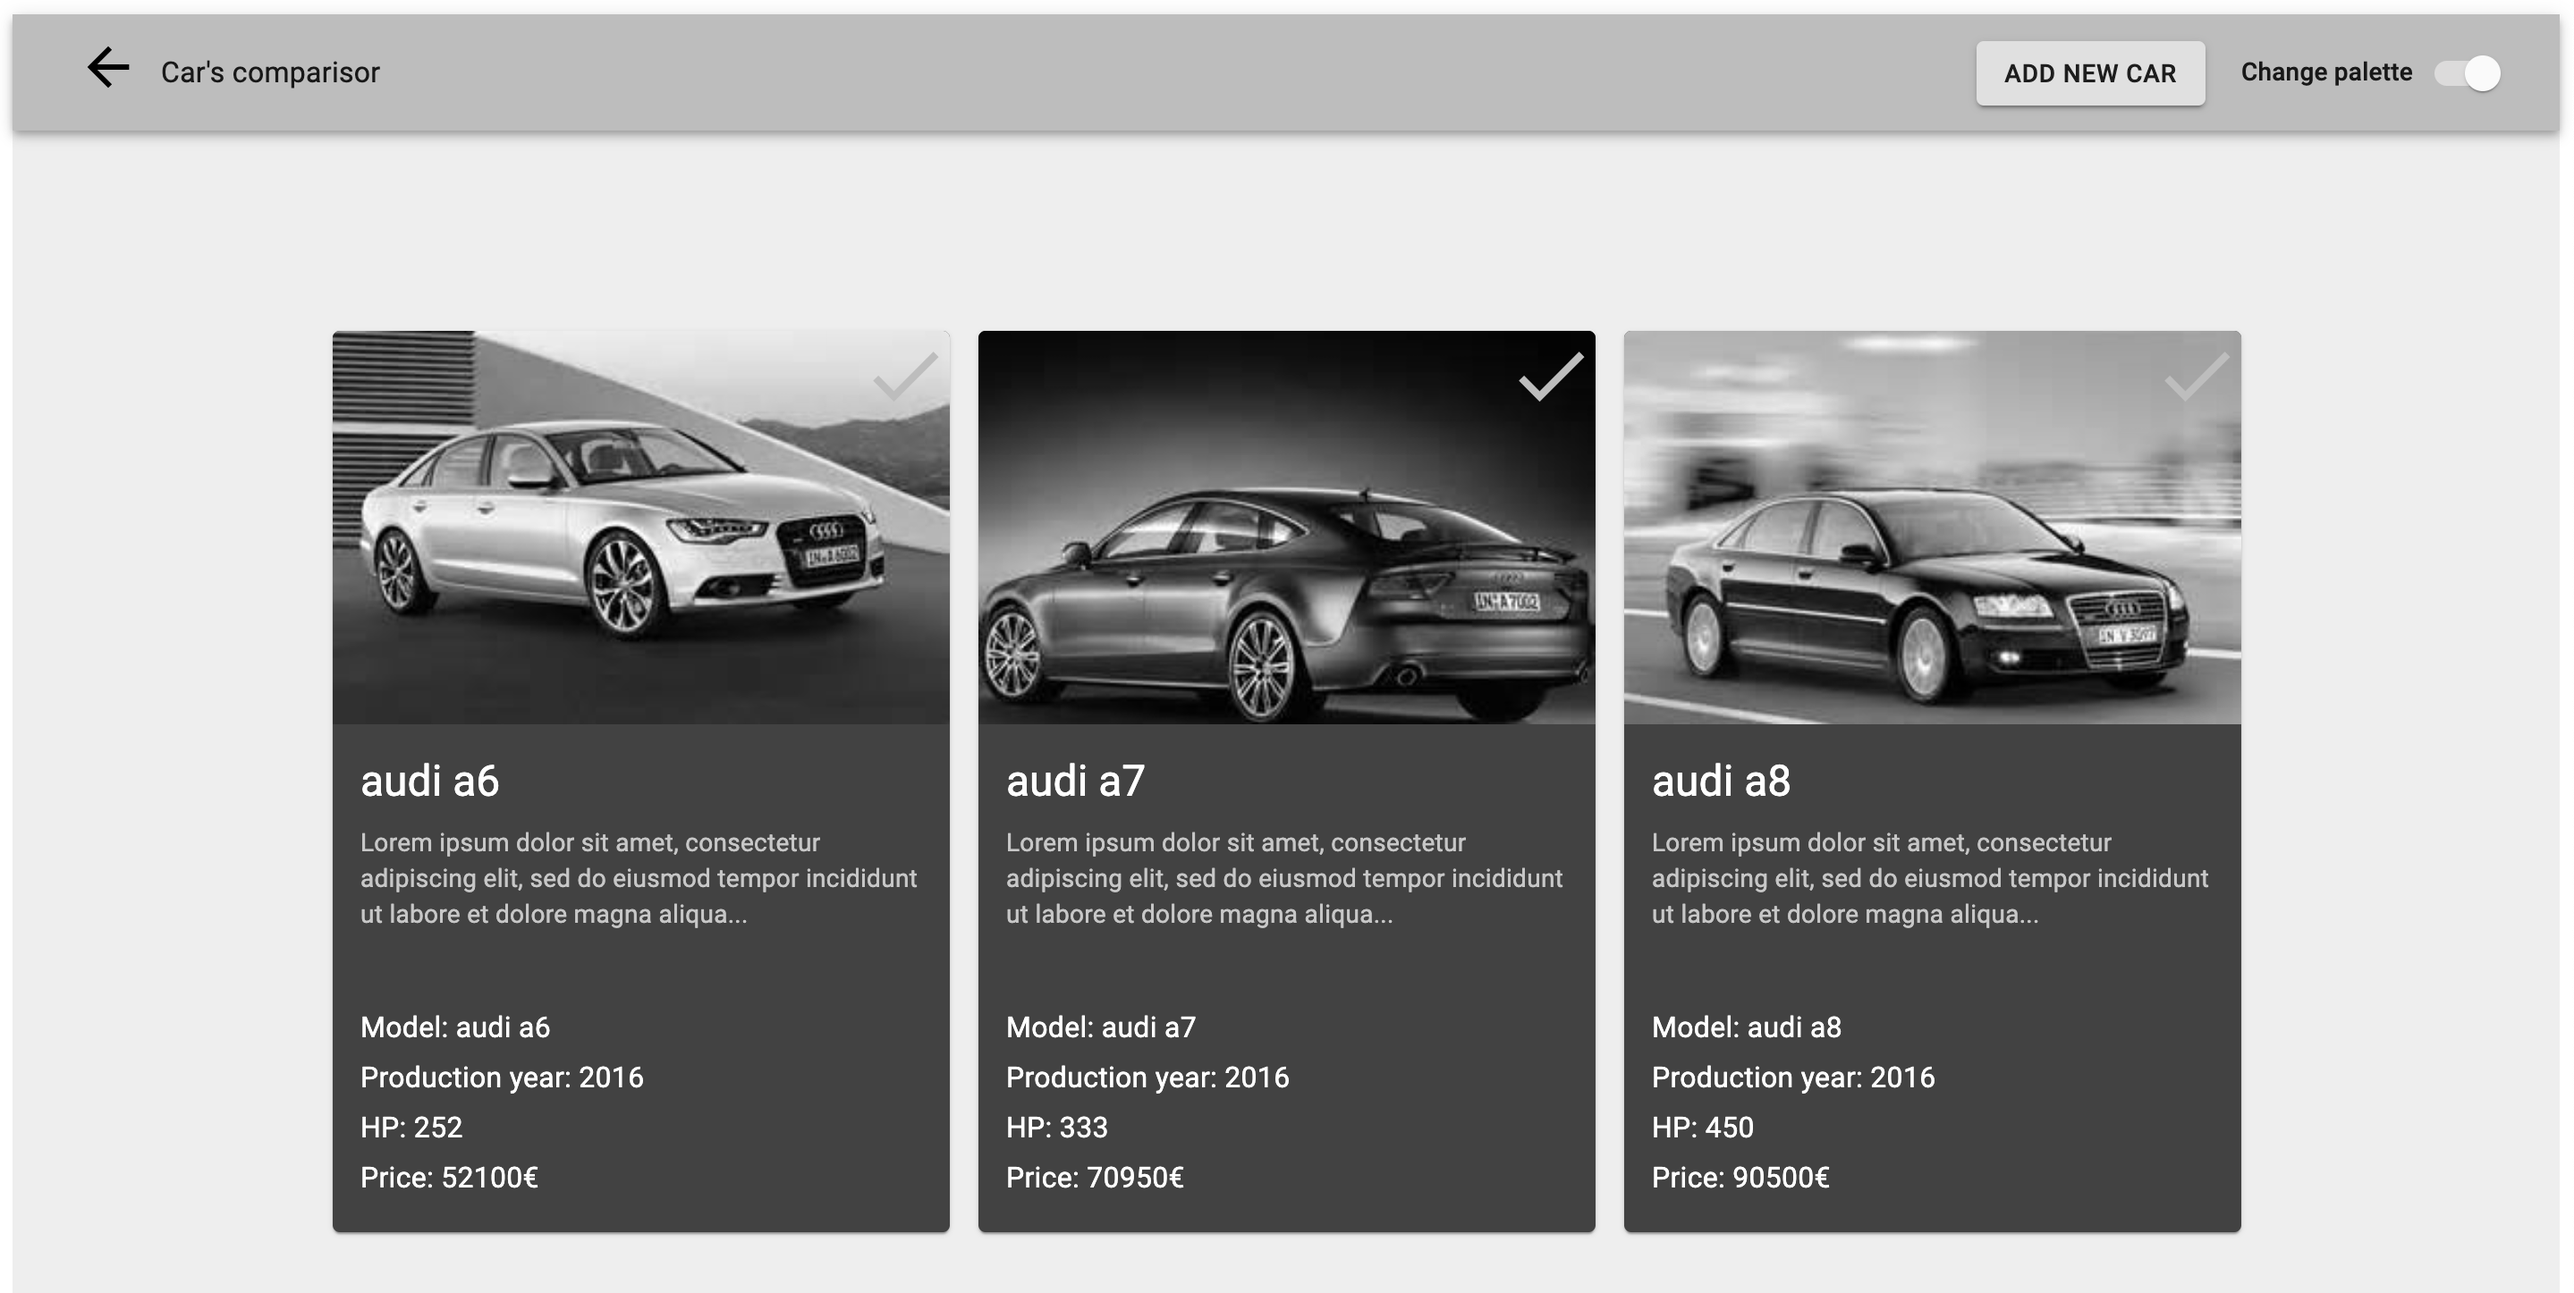
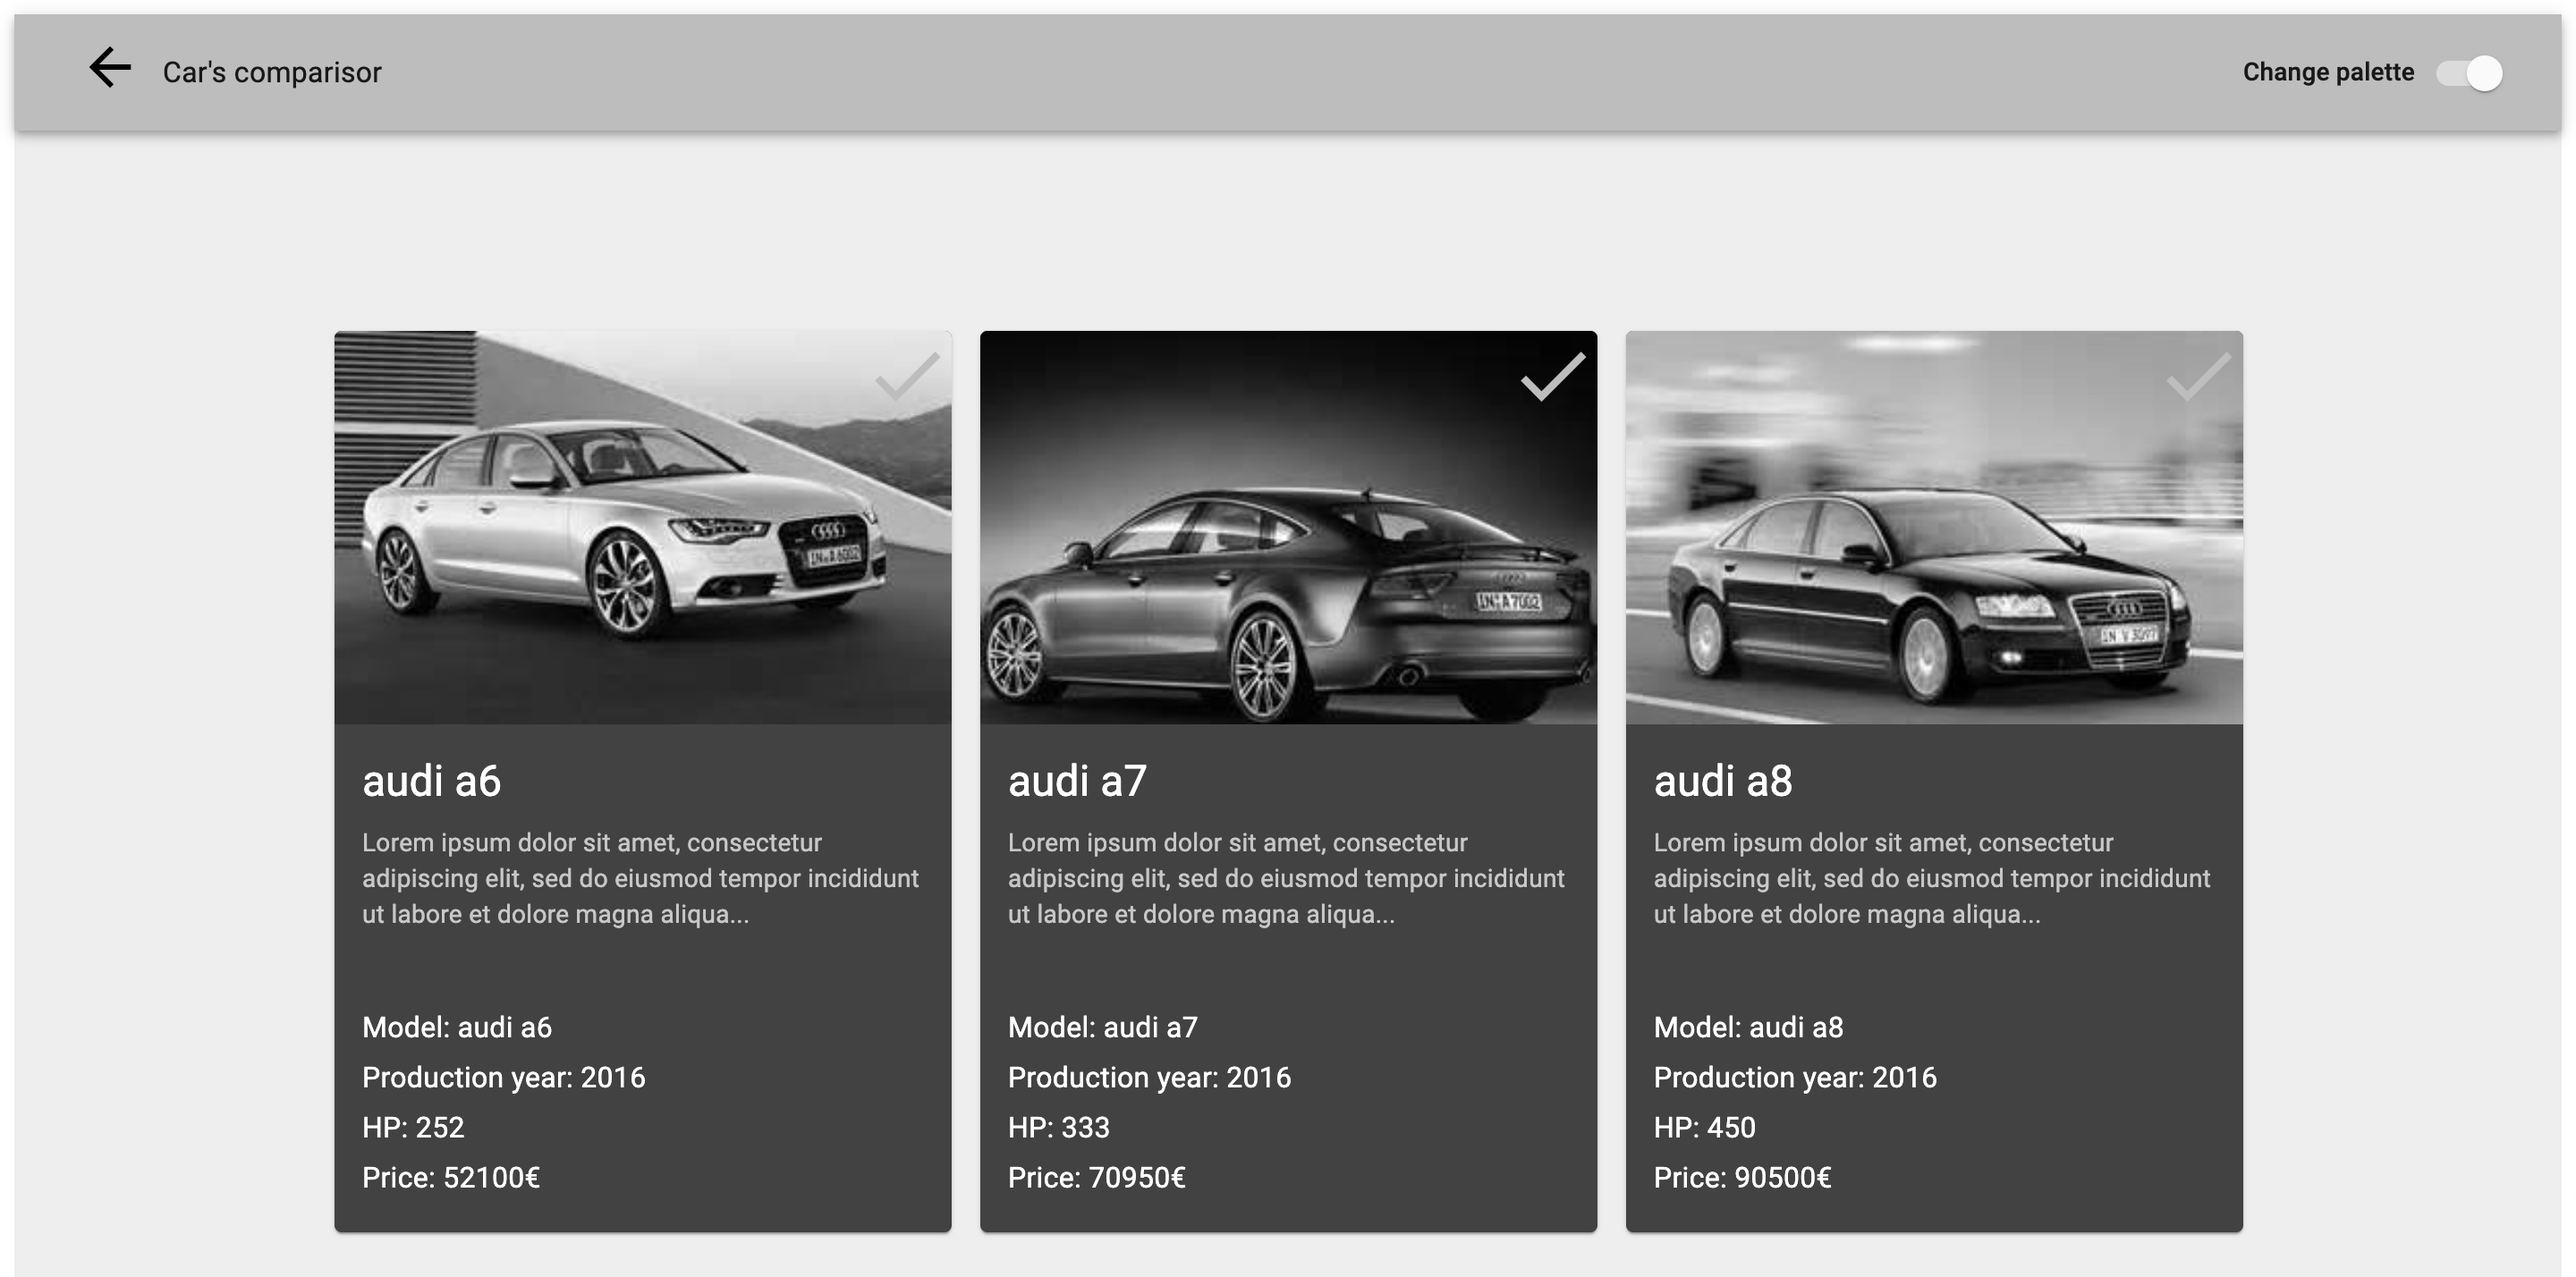
Remove addNewCar button from comparison page

diff --git a/src/features/header/index.tsx b/src/features/header/index.tsx
@@ -68,11 +68,13 @@ export default function Header(props: {
         <AppBar position="static">
           <Toolbar className={classes.toolbar}>
             {title}
-            <div className={classes.createButton}>
-              <Button variant="contained" onClick={handleCreateCarClick}>
-                Add new car
-              </Button>
-            </div>
+            {!hideSearch && (
+              <div className={classes.createButton}>
+                <Button variant="contained" onClick={handleCreateCarClick}>
+                  Add new car
+                </Button>
+              </div>
+            )}
             <Typography variant="subtitle2">Change palette</Typography>
             <Switch checked={currentPalette} onChange={handleThemeChange} />
             {!hideSearch && <SearchBox onSearchChange={onSearchChange} />}
